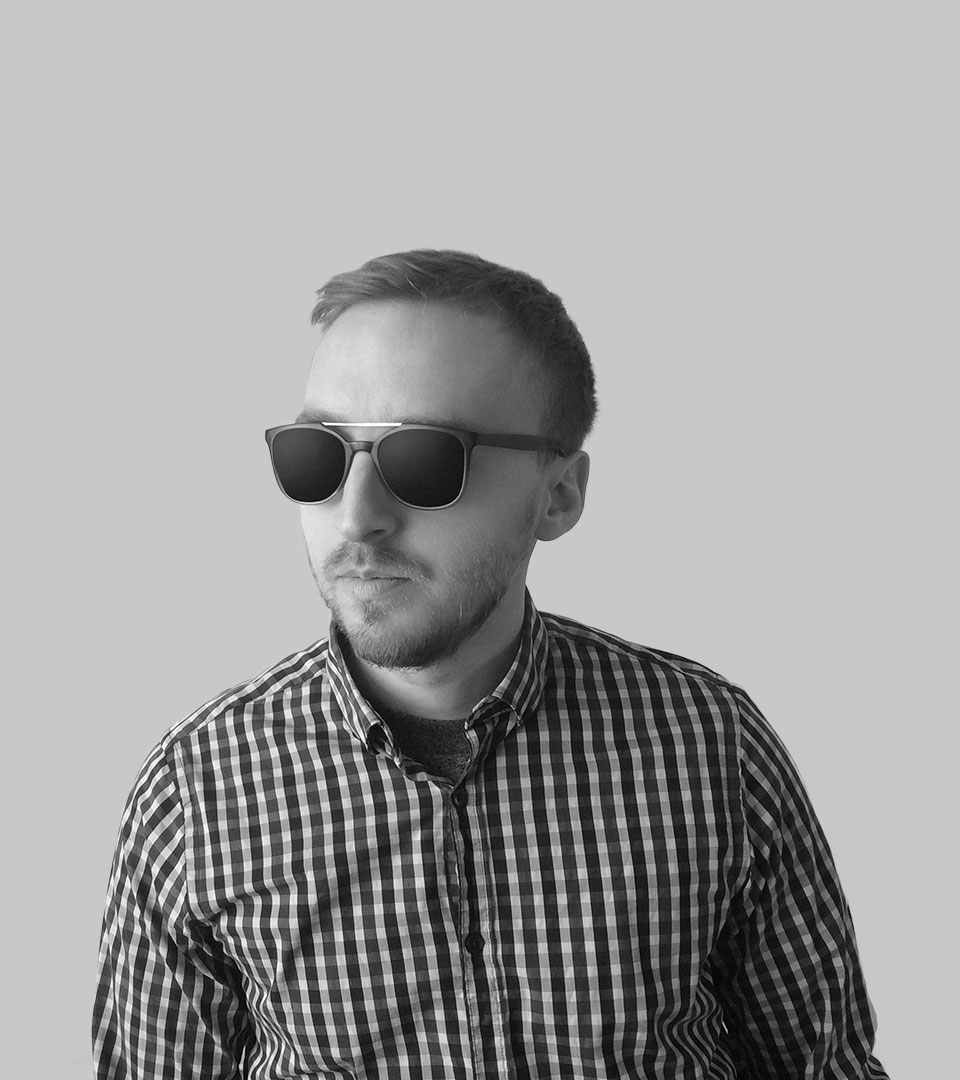
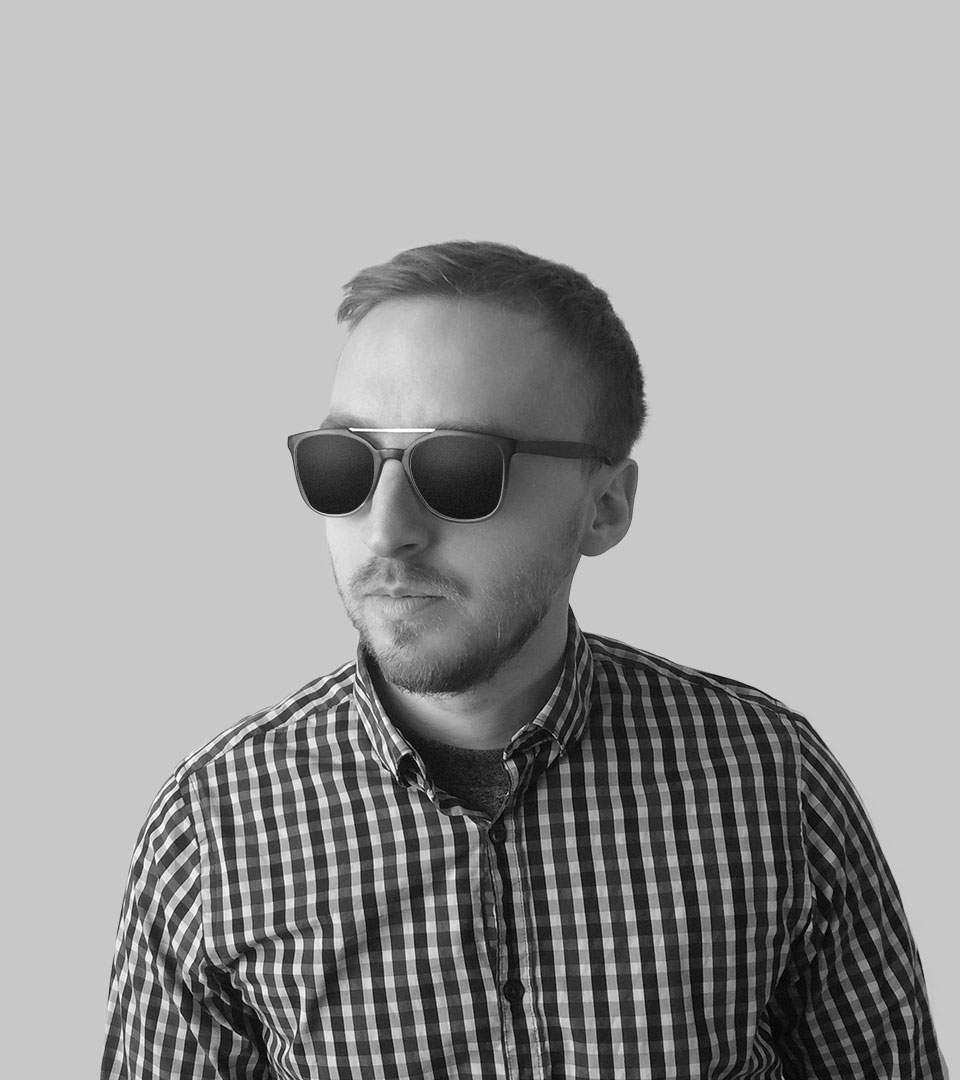
fix bg, add viewports

Changed region(s): [[0.0938, 0.2139, 1.0, 1.0]]

diff --git a/style.css b/style.css
@@ -2,11 +2,11 @@
 body {
   font-family: 'Arvo', serif;
   font-weight: 400;
-  max-width: 960px;
   margin: 0 50px;
   color: #494953;
   background-color: #c8c8c8;
-  background-image: url(asset/background.jpg);
+
+  background-image: url(asset/bgfront.jpg);
   background-repeat: no-repeat;
 
   background-size: fixed;
@@ -33,7 +33,6 @@ h1 {
 .title {
   margin-top: 50px;
   margin-bottom: 150px;
-  display: inline-block;;
 }
 
 .title h1{
@@ -43,13 +42,18 @@ h1 {
   -webkit-margin-end: 0px;
 }
 
+.portrait {
+  display: none;
+}
+
 .aboutme {
-  width: 400px;
+  width: 640px;
   margin-bottom: 50px;
 }
 
 .aboutme p{
-  font-size: 13px;
+  font-size: 15px;
+  line-height: 22px;
 }
 
 
@@ -66,7 +70,6 @@ h1 {
 }
 
 .externallinks li {
-  max-width: 960px;
   list-style: none;
   font-weight: 400;
 }
@@ -76,17 +79,154 @@ h1 {
 }
 
 /* BREAKPOINTS*/
-@media screen and (max-width: 800px) { /* Specific to this particular image */
+@media screen and (max-width: 1400px) { /* Specific to this particular image */
   body {
     background-image: none;
   }
 
-
-
-@media screen and (max-width: 640px) { /* Specific to this particular image */
+@media screen and (min-width: 320px) { /* Specific to this particular image */
+  /*LAYOUT STYLE*/
   body {
+    margin: 30px;
     background-image: none;
-    margin: 10px;
+
+  }
+
+  h1 {
+    text-transform: uppercase;
+    font-weight: 700;
+    font-size: 60px;
+    color: #6A7EFC;
+  }
+
+  /*BODY ELEMENTS STYLE*/
+  .title {
+    margin-top: 0px;
+    margin-bottom: 50px;
+  }
+
+  .title h1{
+    -webkit-margin-before: 0em;
+    -webkit-margin-after: 0em;
+    -webkit-margin-start: 0px;
+    -webkit-margin-end: 0px;
+  }
+
+  .aboutme {
+    margin-bottom: 50px;
+    width: 100%;
+  }
+
+  .aboutme h1 {
+    display: none;
+  }
+
+  .aboutme p{
+    font-size: 40px;
+    line-height: 60px;
     text-align: justify;
   }
-}
+
+  .externallinks {
+    font-size: 60px;
+    line-height: 96px;
+  }
+
+  @media screen and (min-width: 1024px) { /* Specific to this particular image */
+    /*LAYOUT STYLE*/
+    body {
+      background-image: none;
+    }
+
+    h1 {
+      text-transform: uppercase;
+      font-weight: 700;
+      font-size: 30px;
+      color: #6A7EFC;
+    }
+
+    /*BODY ELEMENTS STYLE*/
+    .title {
+      margin-top: 0px;
+      margin-bottom: 50px;
+    }
+
+    .title h1{
+      -webkit-margin-before: 0em;
+      -webkit-margin-after: 0em;
+      -webkit-margin-start: 0px;
+      -webkit-margin-end: 0px;
+    }
+
+    .aboutme p{
+      font-size: 20px;
+      line-height: 30px;
+      text-align: left;
+    }
+
+    .externallinks {
+      font-size: 30px;
+      line-height: 45px;
+    }
+
+    .externallinks a {
+      display: -webkit-flex; /* Safari */
+     -webkit-justify-content: space-around; /* Safari 6.1+ */
+     display: flex;
+     justify-content: space-around;
+     float:left;
+     padding-right: 30px;
+    }
+
+      @media screen and (min-width: 1366px) { /* Specific to this particular image */
+        /*LAYOUT STYLE*/
+        body {
+          background-image: url(asset/bgfront.jpg);
+          background-repeat: no-repeat;
+
+          background-size: fixed;
+          background-position: 550px 100px;
+
+        }
+
+        h1 {
+          text-transform: uppercase;
+          font-weight: 700;
+          font-size: 30px;
+          color: #6A7EFC;
+        }
+
+        /*BODY ELEMENTS STYLE*/
+        .title {
+          margin-top: 0px;
+          margin-bottom: 50px;
+        }
+
+        .title h1{
+          -webkit-margin-before: 0em;
+          -webkit-margin-after: 0em;
+          -webkit-margin-start: 0px;
+          -webkit-margin-end: 0px;
+        }
+
+        .aboutme {
+          margin-bottom: 50px;
+          width: 50%;
+        }
+
+        .aboutme p{
+          font-size: 17px;
+          line-height: 24px;
+          text-align: left;
+        }
+
+        .externallinks {
+          font-size: 30px;
+          line-height: 45px;
+        }
+
+        .externallinks a {
+          float: none;
+          display: block;
+          
+        }

diff --git a/index.html b/index.html
@@ -17,9 +17,18 @@
 </head>
 
 <body>
+  <!--background images-->
+
+
   <div class="title">
     <h1>Akos Kovacs</h1>
     <h1>ui/ux designer</h1>
+
+  <div class="portrait">
+    <img src="asset/bgfront.jpg" alt="">
+
+  </div>
+
   </div>
     <div class="aboutme">
       <h1>About Me</h1>
@@ -34,12 +43,13 @@
       </p>
     </div>
 
+
     <ul class="externallinks">
       <h1>Projects and Social</h1>
       <li><a href="http://hu.linkedin.com/in/akoskovacsme">+ LinkedIn</a></li>
       <li><a href="http://behance.com/akoskovacsme">+ Behance</a></li>
       <li><a href="http://dribbble.com/akoskovacsme">+ Dribbble</a></li>
-      <li><a href="http://">+ Curriculum Vitae</a></li>
+      <li><a href="http://">+ Download CV</a></li>
       <li><a href="mailto:work@akoskovacs.me">+ Email</a></li>
     </ul>
 
